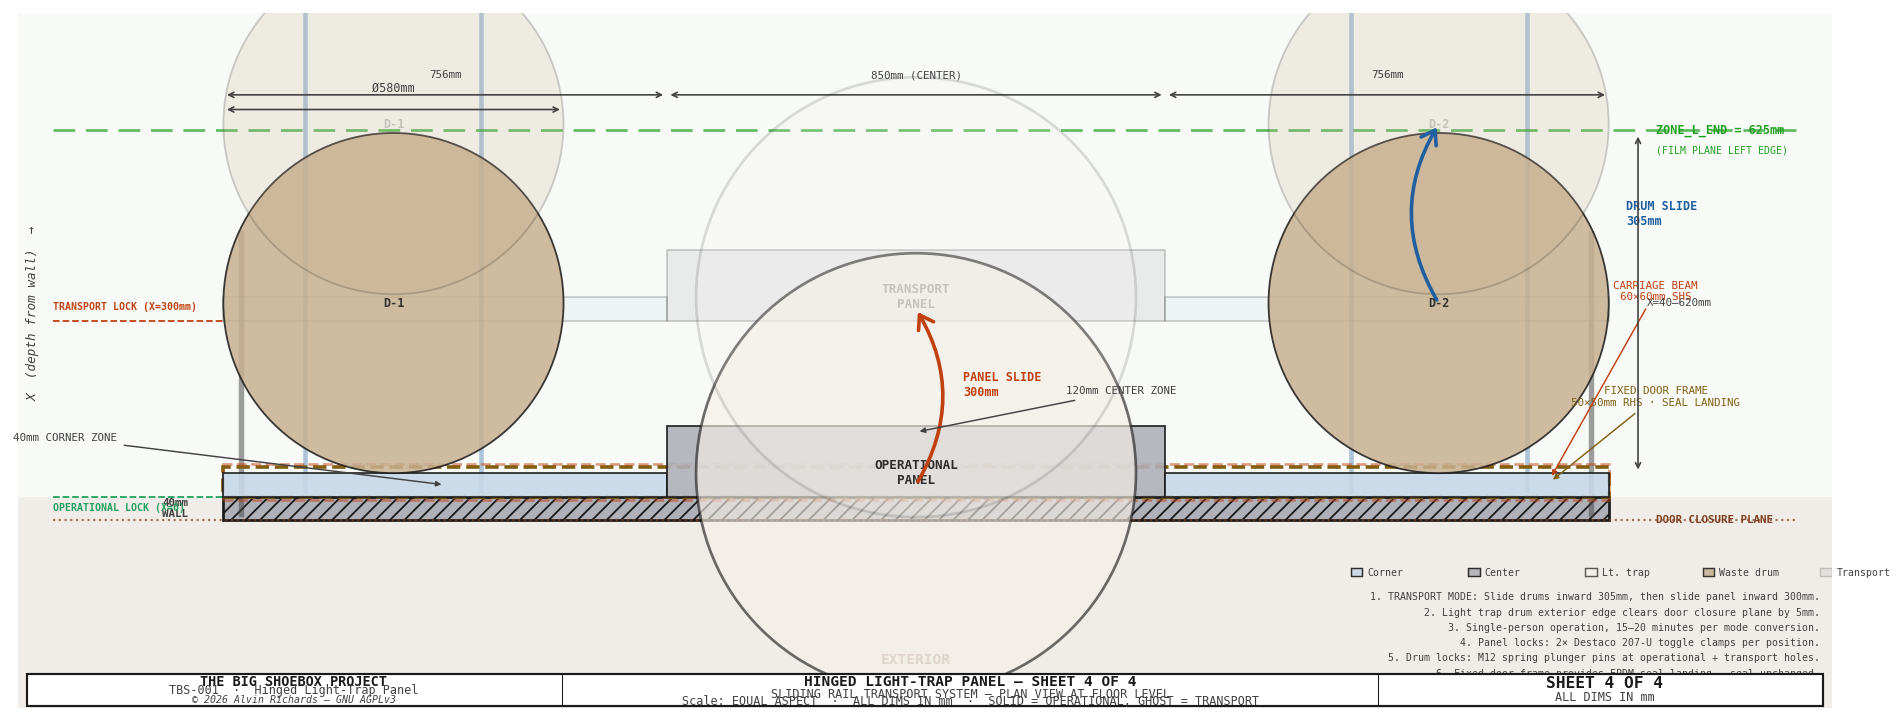
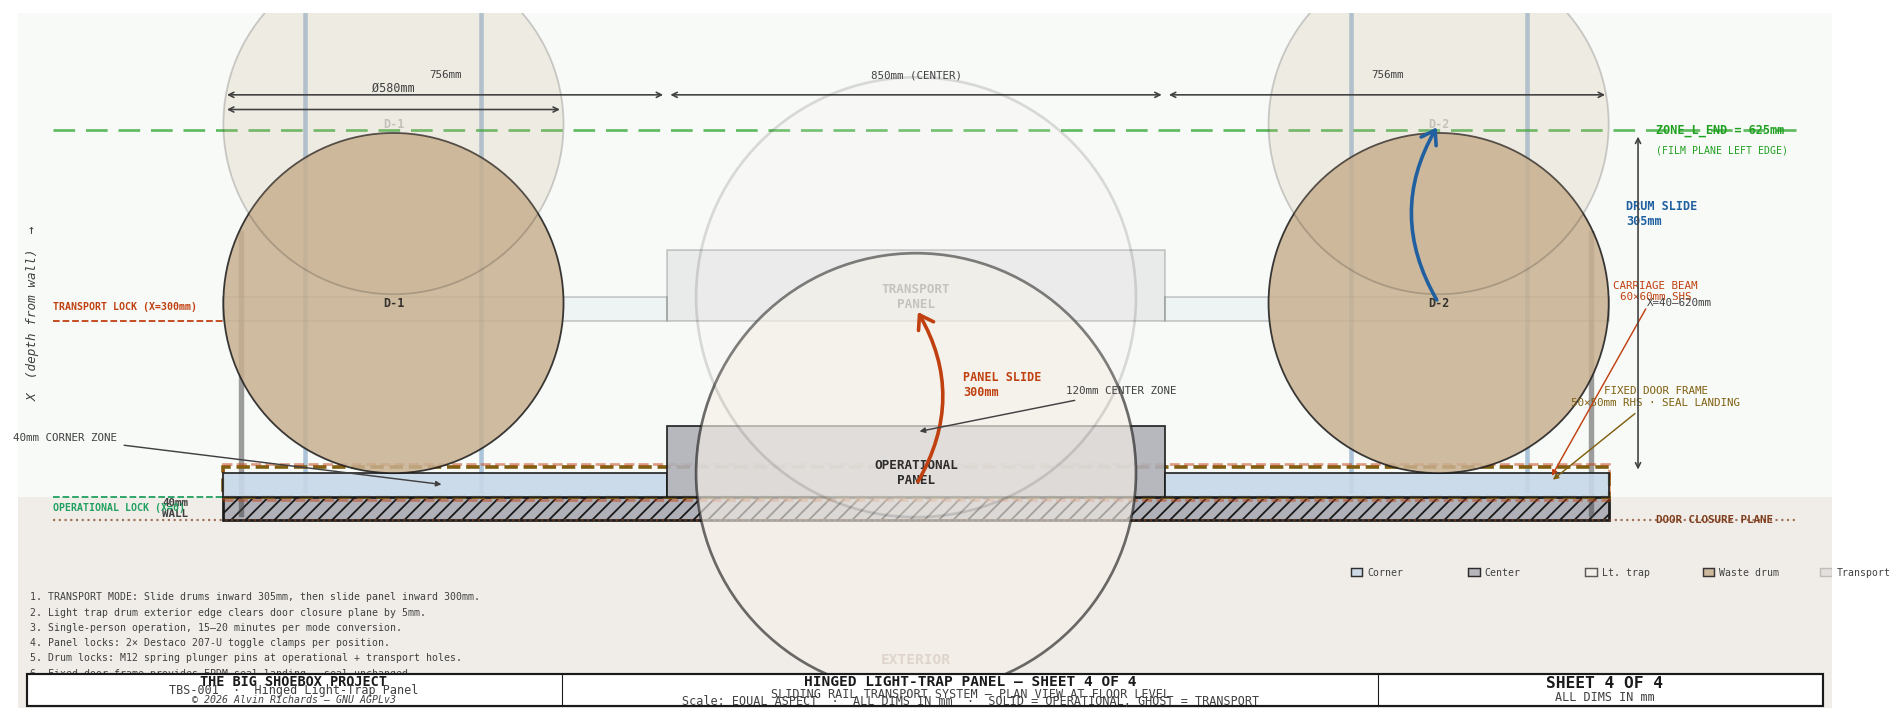
Move Sheet 4 notes to bottom left, left-justified

Changed region(s): [[0.7441, 0.8239, 0.9611, 0.9154], [0.031, 0.8239, 0.248, 0.9154]]

diff --git a/generate_hingepanel_diagram.py b/generate_hingepanel_diagram.py
@@ -1216,7 +1216,7 @@ def sheet4():
     dim_h(ax, PANEL_CORNER_YD_R, C_WID, _dim_top,
           f"{C_WID - PANEL_CORNER_YD_R}mm", offset=25, fs=6)
 
-    # ── Notes (right-justified, in exterior zone below drawing) ────────────
+    # ── Notes (left-justified, bottom left) ─────────────────────────────────
     notes = [
         f"1. TRANSPORT MODE: Slide drums inward {SLIDE_D}mm, then slide panel inward {SLIDE_P}mm.",
         "2. Light trap drum exterior edge clears door closure plane by 5mm.",
@@ -1225,13 +1225,14 @@ def sheet4():
         "5. Drum locks: M12 spring plunger pins at operational + transport holes.",
         "6. Fixed door frame provides EPDM seal landing — seal unchanged.",
     ]
-    notes_x = C_WID + PAD_R - 20
+    notes_x = YD_LO + 20
     for i, note in enumerate(notes):
         ax.text(notes_x, X_LO + 50 + (len(notes) - 1 - i) * 26, note,
-                ha="right", va="bottom", fontsize=5.5, color=C_DIM,
+                ha="left", va="bottom", fontsize=5.5, color=C_DIM,
                 **FONT, zorder=15)
 
-    # ── Legend (bottom right, horizontal row above notes) ───────────────────
+    # ── Legend (bottom right, horizontal row above title block) ──────────────
+    legend_right = C_WID + PAD_R - 20
     legend_y = X_LO + 50 + len(notes) * 26 + 25
     swatches = [
         (C_ALUM,   0.9,  "Corner"),
@@ -1241,7 +1242,7 @@ def sheet4():
         (C_STEEL,  0.20, "Transport"),
     ]
     SWATCH_STEP = 200
-    legend_start = notes_x - (len(swatches) - 1) * SWATCH_STEP
+    legend_start = legend_right - (len(swatches) - 1) * SWATCH_STEP
     for i, (c, a, lbl) in enumerate(swatches):
         sx = legend_start + i * SWATCH_STEP
         ax.add_patch(Rectangle((sx, legend_y - 7), 20, 14,
